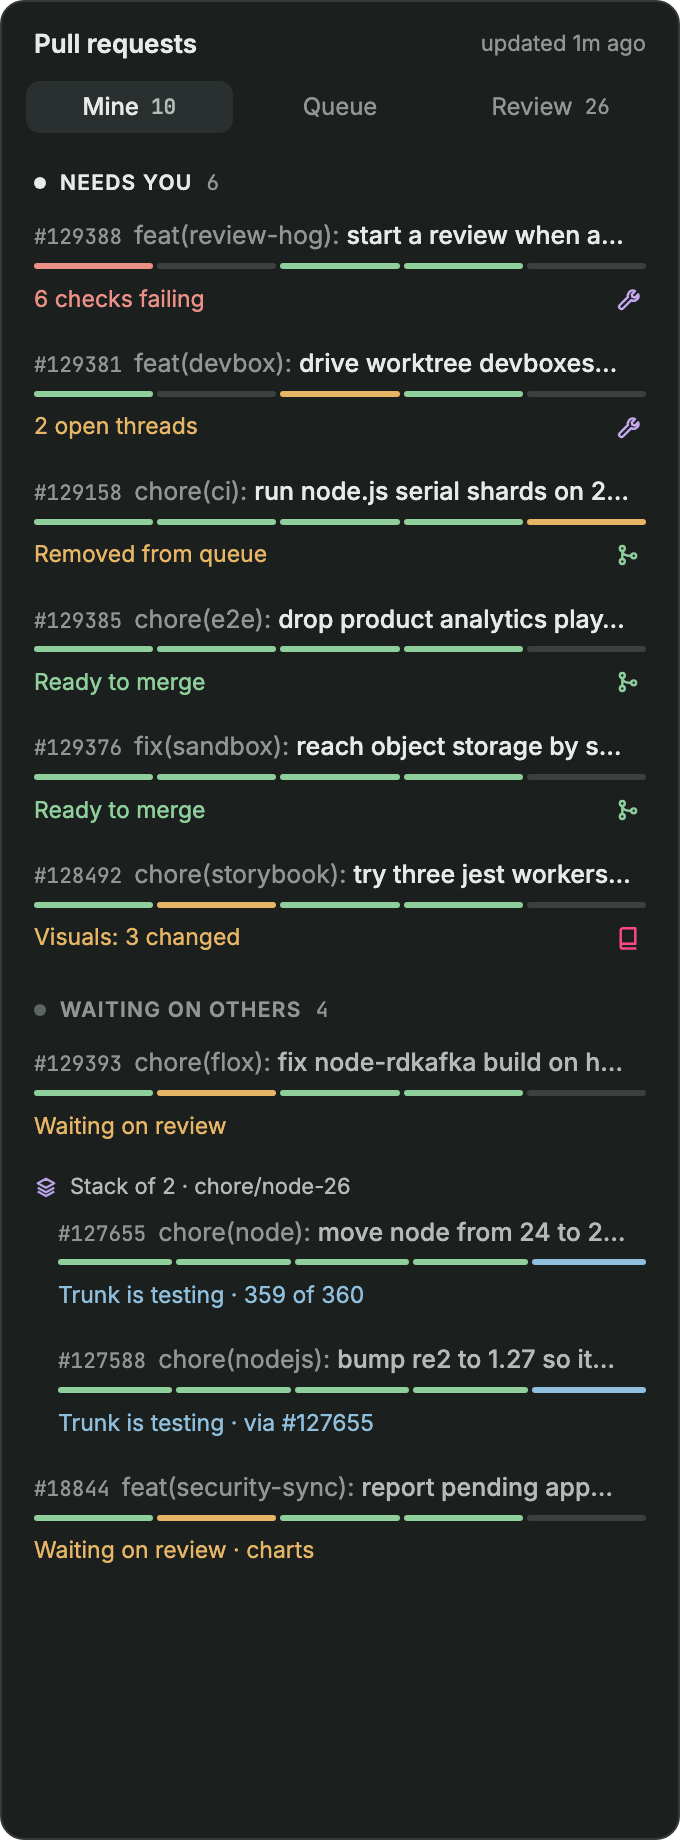
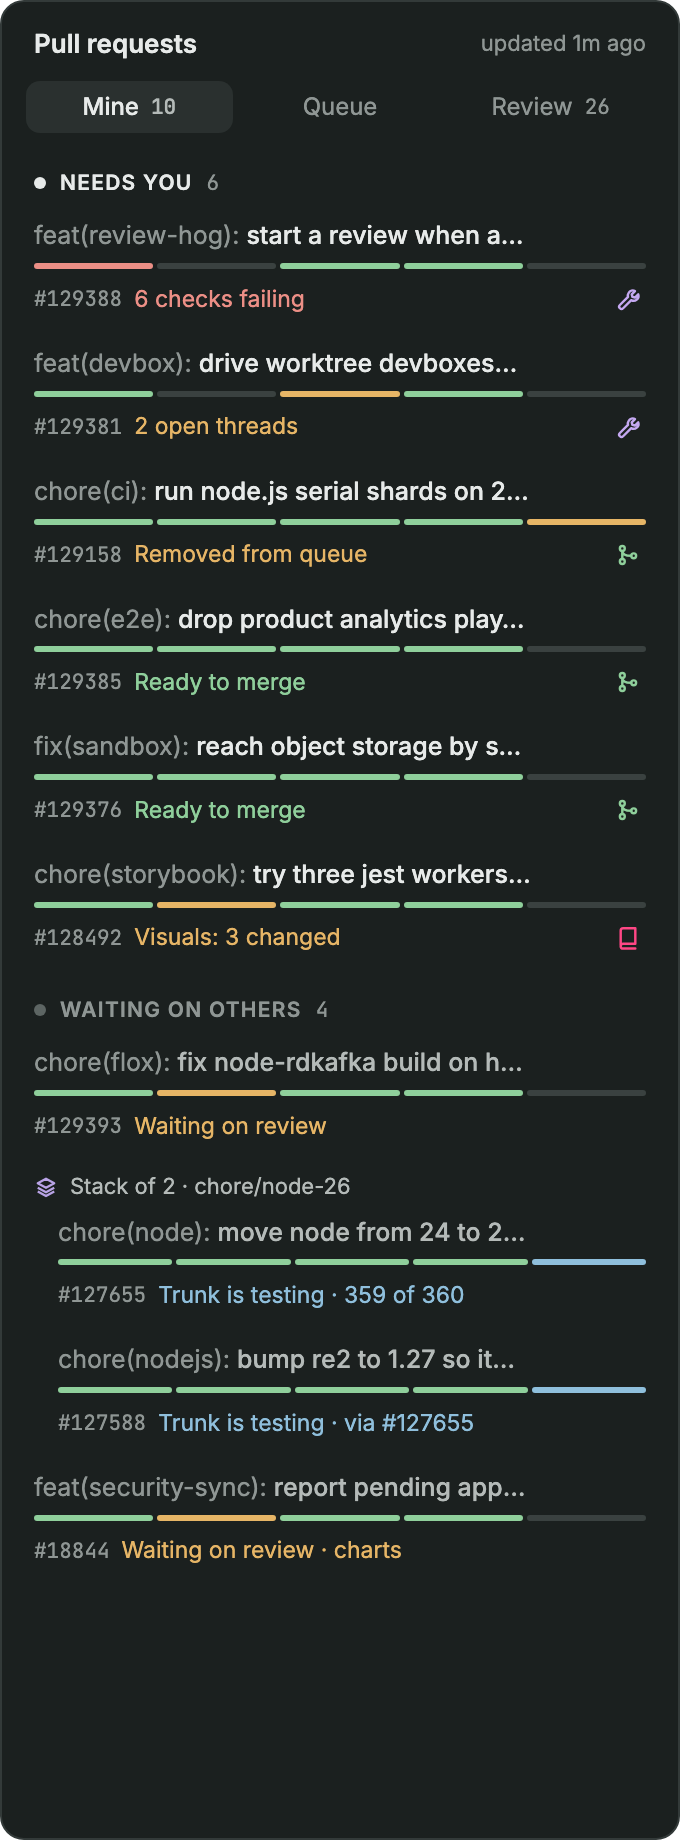
fix(pull-requests): move the PR number to the status row and hide passing check counts

diff --git a/pull-requests/mods/prs/sidebar.js b/pull-requests/mods/prs/sidebar.js
@@ -106,14 +106,15 @@ export function rowButtons(view, t, pr, { scope, next, entry, group, plain = fal
   return buttons;
 }
 
-export function statusLine(view, t, pr, { scope = "mine", group = null, buttons = true } = {}) {
+export function statusLine(view, t, pr, { scope = "mine", group = null, buttons = true, number = null } = {}) {
   const { next, entry } = scope === "mine" ? nextFor(view, pr, group) : { next: null, entry: null };
-  const ci = pr.checks.total && next?.icon !== "spinner" ? stat(t, pr.checks.failed ? "fail" : "check", `${pr.checks.passed}/${pr.checks.total}`, pr.checks.failed ? "bad" : "dim") : null;
+  const ci = pr.checks.failed ? stat(t, "fail", `${pr.checks.passed}/${pr.checks.total}`, "bad") : null;
   const priority = scope !== "mine" ? priorityBadge(t, pr) : null;
   return h_flex()
     .gap(7)
     .items_center()
     .flex_wrap()
+    .when(Boolean(number), (el) => el.child(div().flex_none().text_size(TEXT.meta).text_color(t.dim).child(number)))
     .when(Boolean(next), (el) => el.child(div().flex_none().text_size(TEXT.chip).text_color(tone(t, next.tone)).child(next.label)))
     .when(Boolean(priority), (el) => el.child(priority))
     .when(scope !== "mine", (el) => el.child(div().flex_none().text_size(TEXT.meta).text_color(t.dim).child(`@${pr.author} · ${ago(pr.createdAt)}`)))
@@ -183,13 +184,12 @@ function prRow(view, t, pr, { depth = 0, group = null, scope = "mine", quiet = f
         .gap(6)
         .items_center()
         .child(prIcon(view, t, pr, { scope, group }))
-        .child(div().flex_none().text_size(TEXT.meta).text_color(t.dim).child(`${showRepo ? pr.repo.split("/")[1] : ""}#${pr.number}`))
         .child(titleText(t, pr.title, { quiet }))
         .when(view.isBusy(pr), (el) => el.child(icon(t, "spinner", "dim", 11, true)))
         .when(view.hovered === id, (el) => el.child(linkIcons(view, t, id, pr))),
     )
     .child(div().pl(19).child(gateStrip(t, id, gatesFor(view, pr, group, scope))))
-    .child(div().pl(19).child(statusLine(view, t, pr, { scope, group })))
+    .child(div().pl(19).child(statusLine(view, t, pr, { scope, group, number: `${showRepo ? pr.repo.split("/")[1] : ""}#${pr.number}` })))
     .when(Boolean(progress), (el) => el.child(div().pl(19).child(progress)));
 }
 

diff --git a/pull-requests/RECIPE.md b/pull-requests/RECIPE.md
@@ -13,7 +13,7 @@ The panel sits under the agents list. In the `Pull-Requests` layout, `cmd-shift-
 - **The sidebar panel:** tabs **Mine**, **Queue** and **Review**, each with a count, then on Mine a draft icon that hides drafts (colored while they're hidden), a refresh icon (yellow after a failed refresh) and `⤢` to open the full page. Narrower than 160 px it draws a rail of tab icons with counts.
   - **Mine** splits your open PRs into "Needs you" and "Waiting on others", both foldable. A PR needs you when it's a draft, has a visual review to approve, can be fixed (conflicts, failing checks, changes requested, threads), was removed from the queue, or is ready to merge; a stack sits under "Needs you" when any layer does. PRs outside the first configured repo show the repo before their number. Hiding drafts drops a stack only when every layer is a draft, so "k/N ready" still counts draft layers.
   - **Stacks:** PRs in a stack sit under "Stack of N · top-branch", top layer first and indented. The header shows the stack's Trunk state, or "k/N ready", and "Merge stack" once every layer is ready.
-  - **Rows:** each row is a state icon, `#number` and the title, with a conventional prefix like `chore(ci):` dimmed, and the whole title dimmed when the PR is waiting on others. Under it is the readiness strip: five bars for Checks, Review, Threads, Conflicts and Queue (or Merge), colored like the sheet's gates, each with a tooltip. Then the next-step chip ("CI 40/52", "2 checks failing", "Conflicts", "Changes requested", "Needs review", "Visuals: 3 changed", "Stack too deep", "Ready to merge", "Queued, waiting: …", "Testing 58%", "3rd in line", "Merging", "Merged", "Queue failed", "Waiting on #n below"), followed by checks passed/total, approvals and unresolved threads. Hovering a PR or queue row shows a Claude Code icon, a copy-link icon and an open icon.
+  - **Rows:** each row is a state icon and the title, with a conventional prefix like `chore(ci):` dimmed, and the whole title dimmed when the PR is waiting on others. Under it is the readiness strip: five bars for Checks, Review, Threads, Conflicts and Queue (or Merge), colored like the sheet's gates, each with a tooltip. The last line starts with `#number` (or `repo#number` outside the first repo), then the next-step chip ("CI 40/52", "2 checks failing", "Conflicts", "Changes requested", "Needs review", "Visuals: 3 changed", "Stack too deep", "Ready to merge", "Queued, waiting: …", "Testing 58%", "3rd in line", "Merging", "Merged", "Queue failed", "Waiting on #n below"), followed by checks passed/total when checks are failing, approvals and unresolved threads. Hovering a PR or queue row shows a Claude Code icon, a copy-link icon and an open icon.
   - **Testing progress:** while Trunk tests a PR, a thin bar shows checks done out of the total, and the time since the test started.
   - **Queue** lists Trunk's queue in folding sections: Yours, Testing, Merging, Waiting (numbered), Not ready, Failing, Failed, and Recently merged (folded at first). Counts at Trunk's 10-item cap read "10+".
   - **Review** lists PRs waiting on your review under "Requested from you" and "Your teams" (folded at first), each sorted by priority with one reason label ("Unblocks others 3", "Last approval", "Quick (14 lines)", "Waited 36h", …). PRs you hid fold into "Hidden".
